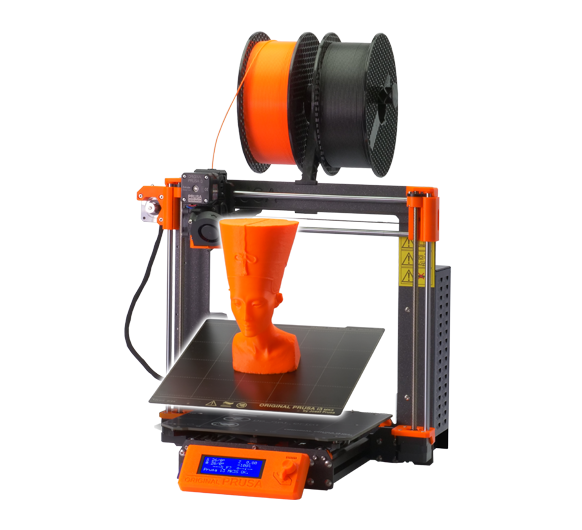
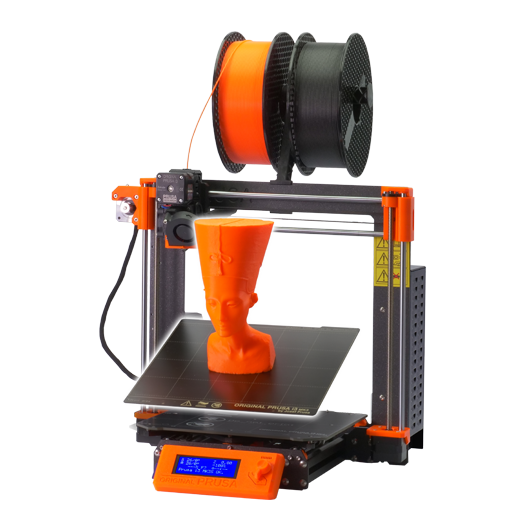
Modificación de imágenes

diff --git a/Impresion/index.html b/Impresion/index.html
@@ -154,7 +154,7 @@
       <h2 id="servicios">Servicios</h2>
     <div class="card-group">
       <div class="card">
-        <img src="./imagenes/imagen4.jpg" class="card-img-top" alt="..."height=400>
+        <img src="./imagenes/imagen4.webp" class="card-img-top" alt="..."height=400>
         <div class="card-body">
              <h5 class="card-title"> <strong>Filamentos</strong></h5>
               <p class="card-text">Contamos con distintos tipos de filamentos: PLA, PLA+, ABS, materiales flexibles y mucho más</p>
